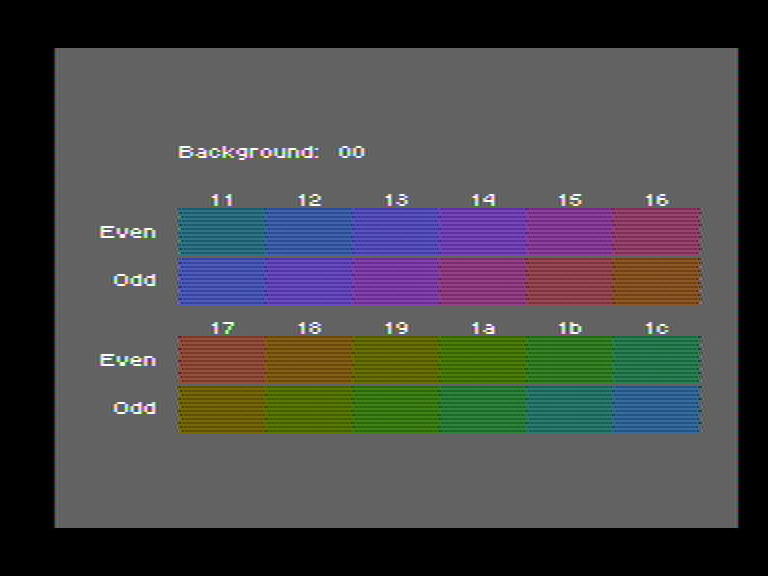
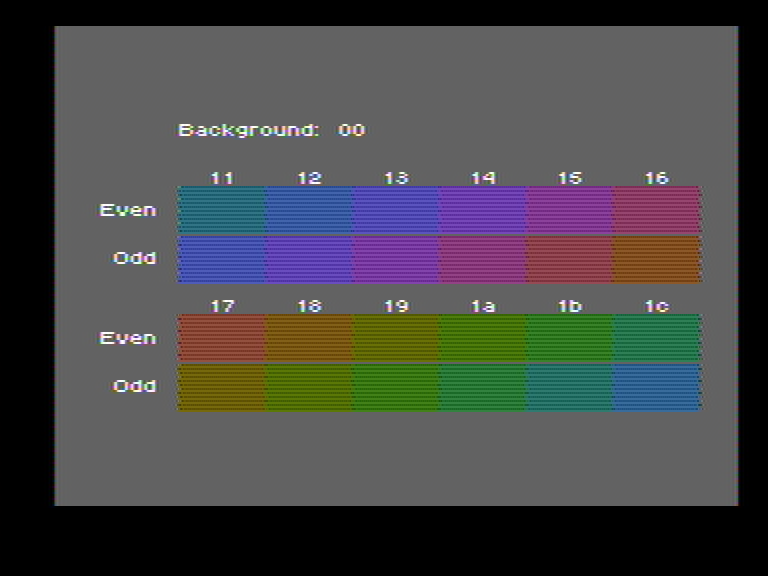
PPU_CVBS_Previewer: Fix PAL underscan

diff --git a/ppu_cvbs_previewer/ppu_cvbs_preview.py b/ppu_cvbs_previewer/ppu_cvbs_preview.py
@@ -819,7 +819,7 @@ def encode_frame(raw_ppu,
 
     for scanline in range(raw_ppu.shape[0]):
         # todo: concurrency for non-comb filter decoding
-        alternate_line = ppu_type == "2C07" and (scanline % 2 == 0)
+        alternate_line = ppu_type == "2C07" and (scanline % 2 == 1)
 
         # encode scanline
         skip &= (scanline==0)
@@ -888,13 +888,13 @@ def main(argv=None):
     # according to Figure 3 on BT.1700
     if args.ppu == "2C07":
         raw_ppu = np.append(
-            np.full((24, raw_ppu.shape[1]), 0x0F, dtype=np.int16),
+            np.full((13, raw_ppu.shape[1]), 0x0F, dtype=np.int16),
             raw_ppu,
             axis=0
         )
         raw_ppu = np.append(
             raw_ppu,
-            np.full((24, raw_ppu.shape[1]), 0x0F, dtype=np.int16),
+            np.full((35, raw_ppu.shape[1]), 0x0F, dtype=np.int16),
             axis=0
         )
 
